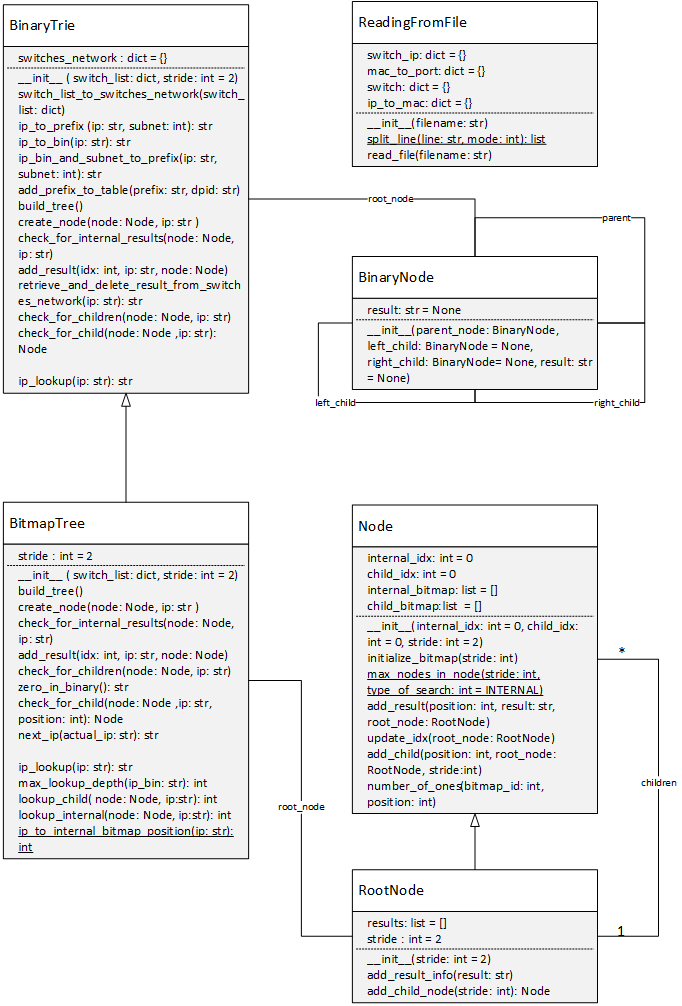
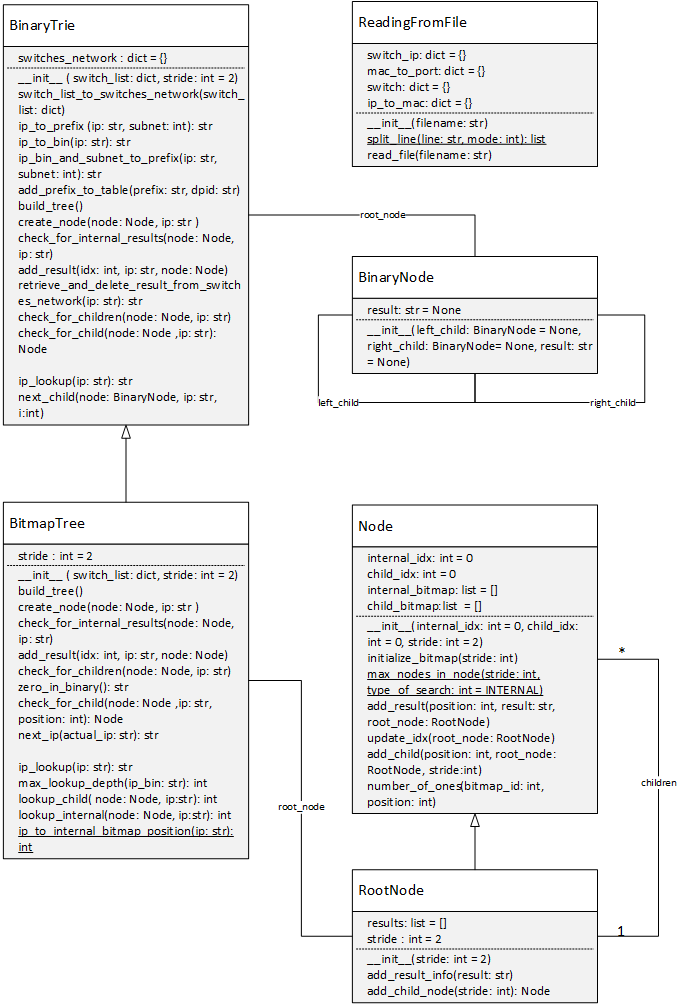
Binary Search in a Recursive Way
Backtracking is now implement through recursion and not through keeping
a pointer to the parent

diff --git a/Tree.py b/Tree.py
@@ -70,7 +70,7 @@ class BinaryTrie:
 
         """
         print("--- Creating Root Node")
-        self.root_node = BinaryNode(None)
+        self.root_node = BinaryNode()
         self.create_node(self.root_node)
         print("-- Bitmap Tree Built with Success")
 
@@ -134,51 +134,51 @@ class BinaryTrie:
         for network in self.switches_network:
             if network.startswith(ip):
                 print("----- Adding Child")
-                return BinaryNode(node)
+                return BinaryNode()
 
 
     def ip_lookup(self, ip):
         """Method respondible for the ip_lookup. Receives an ip and goes
         to the tree until the end, finding the longest prefix match.
 
-        Does two loops:
-        1. Ip-lookup loop: consist in going through every node until
-        reaching the longest prefix match
-        2.Backtrack loop: Does backtracking until finding a result
-
+        To do that it is called a recursive method, to assure that 
+        backtraking is possible 
         """
         ip_bin = self.ip_to_bin(ip)
         print("\n\nLookup of IP "+ ip +" (binary: "+ ip_bin + ")")
 
-        next_node = self.root_node
-        i = 0
-        max_i = len(ip_bin)
-
-        while True:
-            if (ip_bin[i] == "0"):
-                if next_node.left_child:
-                    next_node = next_node.left_child
-                else:
-                    break
-            elif (ip_bin[i] == "1"):
-                if next_node.right_child:
-                    next_node = next_node.right_child
-                else:
-                    break
-            elif (i == max_i):
-                break
-
-            i +=1
-
-        while True:
-            if (next_node.result):
-                result = next_node.result
-                break
-            else:
-                next_node = next_node.parent_node
+        result = self.next_child(self.root_node, ip_bin, 0)
 
         print ("\n\nSearch ended!\nResult: "+ result)
         return result
+
+
+    def next_child(self, node, ip, i):
+        """Recursive method that goes until the last correspondent node
+        of the trie.
+        The i represents the current level of the trie
+
+        The function returns None while there is no matching result and
+        returns the result already obtained after arriving to the
+        longest prefix match
+        """
+        result = None
+        next_node = None
+        if (ip[i] == "0"):
+            if node.left_child:
+                next_node = node.left_child
+        elif (ip[i] == "1"):
+            if node.right_child:
+                next_node = node.right_child
+        
+        if next_node:       
+            result = self.next_child(next_node, ip, i+1)
+
+        if result:
+            return result
+        else:
+            return node.result
+
 
 
 class BitmapTree(BinaryTrie):

diff --git a/node.py b/node.py
@@ -2,17 +2,15 @@
 INTERNAL = 0
 CHILDREN = 1
 
-class BinaryNode():
+class BinaryNode:
     """Class for a node in a binary trie """
     left_child = None
     right_child = None
-    parent_node = None
     result = None
 
-    def __init__(self, parent_node, left_child = None, right_child = None, 
+    def __init__(self, left_child = None, right_child = None, 
         result = None):
         """Constructor of the class, initializes the variables"""
-        self.parent_node = parent_node
         self.left_child = left_child
         self.right_child = right_child
         self.result = result
